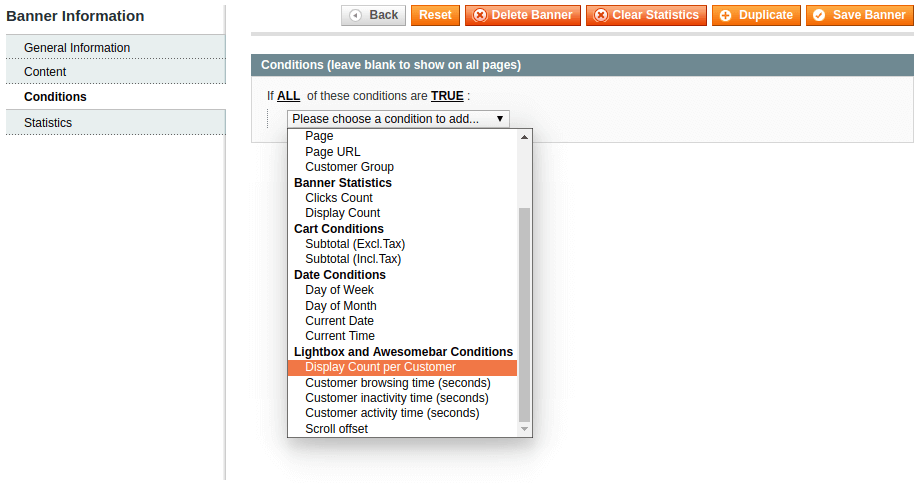
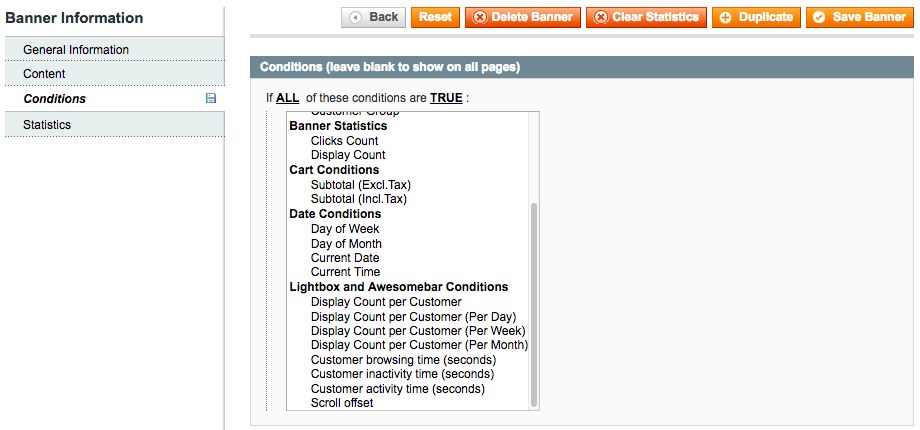
Easybanner M1: v.1.7.0

diff --git a/m1/extensions/easybanners/backend-manage-banners.md b/m1/extensions/easybanners/backend-manage-banners.md
@@ -92,6 +92,9 @@ Current Date    | Show/hide banner on specific date, or daterange (holiday, prom
 Current Time    | Show/hide banner at specified time or timerange
 [**Lightbox and Awesomebar**](../../use-cases/lightbox-and-awesomebar-banners/) **Conditions** |
 Display Count per Customer          | Do not show banner more than X times for particular customer
+Display Count per Customer (Per Day)    | Do not show banner more than X times per day for particular customer
+Display Count per Customer (Per Week)   | Do not show banner more than X times per week for particular customer
+Display Count per Customer (Per Month)  | Do not show banner more than X times per month for particular customer
 Customer browsing time (seconds)    | Show banner after X seconds of browsing time (idle + activity)
 Customer inactivity time (seconds)  | Show banner after X seconds of idle time
 Customer activity time (seconds)    | Show banner after X seconds of active browsing

diff --git a/m1/extensions/easybanners/use-cases-lightbox-and-awesomebar-banners.md b/m1/extensions/easybanners/use-cases-lightbox-and-awesomebar-banners.md
@@ -25,6 +25,9 @@ for these banners:
 Condition                           | Description
 ------------------------------------|---------------------------------------------------------------
 Display Count per Customer          | Do not show banner more than X times for particular customer
+Display Count per Customer (Per Day)    | Do not show banner more than X times per day for particular customer
+Display Count per Customer (Per Week)   | Do not show banner more than X times per week for particular customer
+Display Count per Customer (Per Month)  | Do not show banner more than X times per month for particular customer
 Customer browsing time (seconds)    | Show banner after X seconds of browsing time (idle + activity)
 Customer inactivity time (seconds)  | Show banner after X seconds of idle time
 Customer activity time (seconds)    | Show banner after X seconds of active browsing

diff --git a/m1/extensions/easybanners/changelog.md b/m1/extensions/easybanners/changelog.md
@@ -6,6 +6,12 @@ category: Easy Banners
 sidebar: sidebar.md
 ---
 
+### Version 1.7.0
+
+ -  Added ability to show lightbox/awesomebar banner once a
+    [day/week/month per customer](/m1/extensions/easybanners/backend/manage-banners/#conditions)
+ -  Magento 1.9.3.3 image validator added to the upload image action
+
 ### Version 1.6.1
 
  -  Transparent images support added
